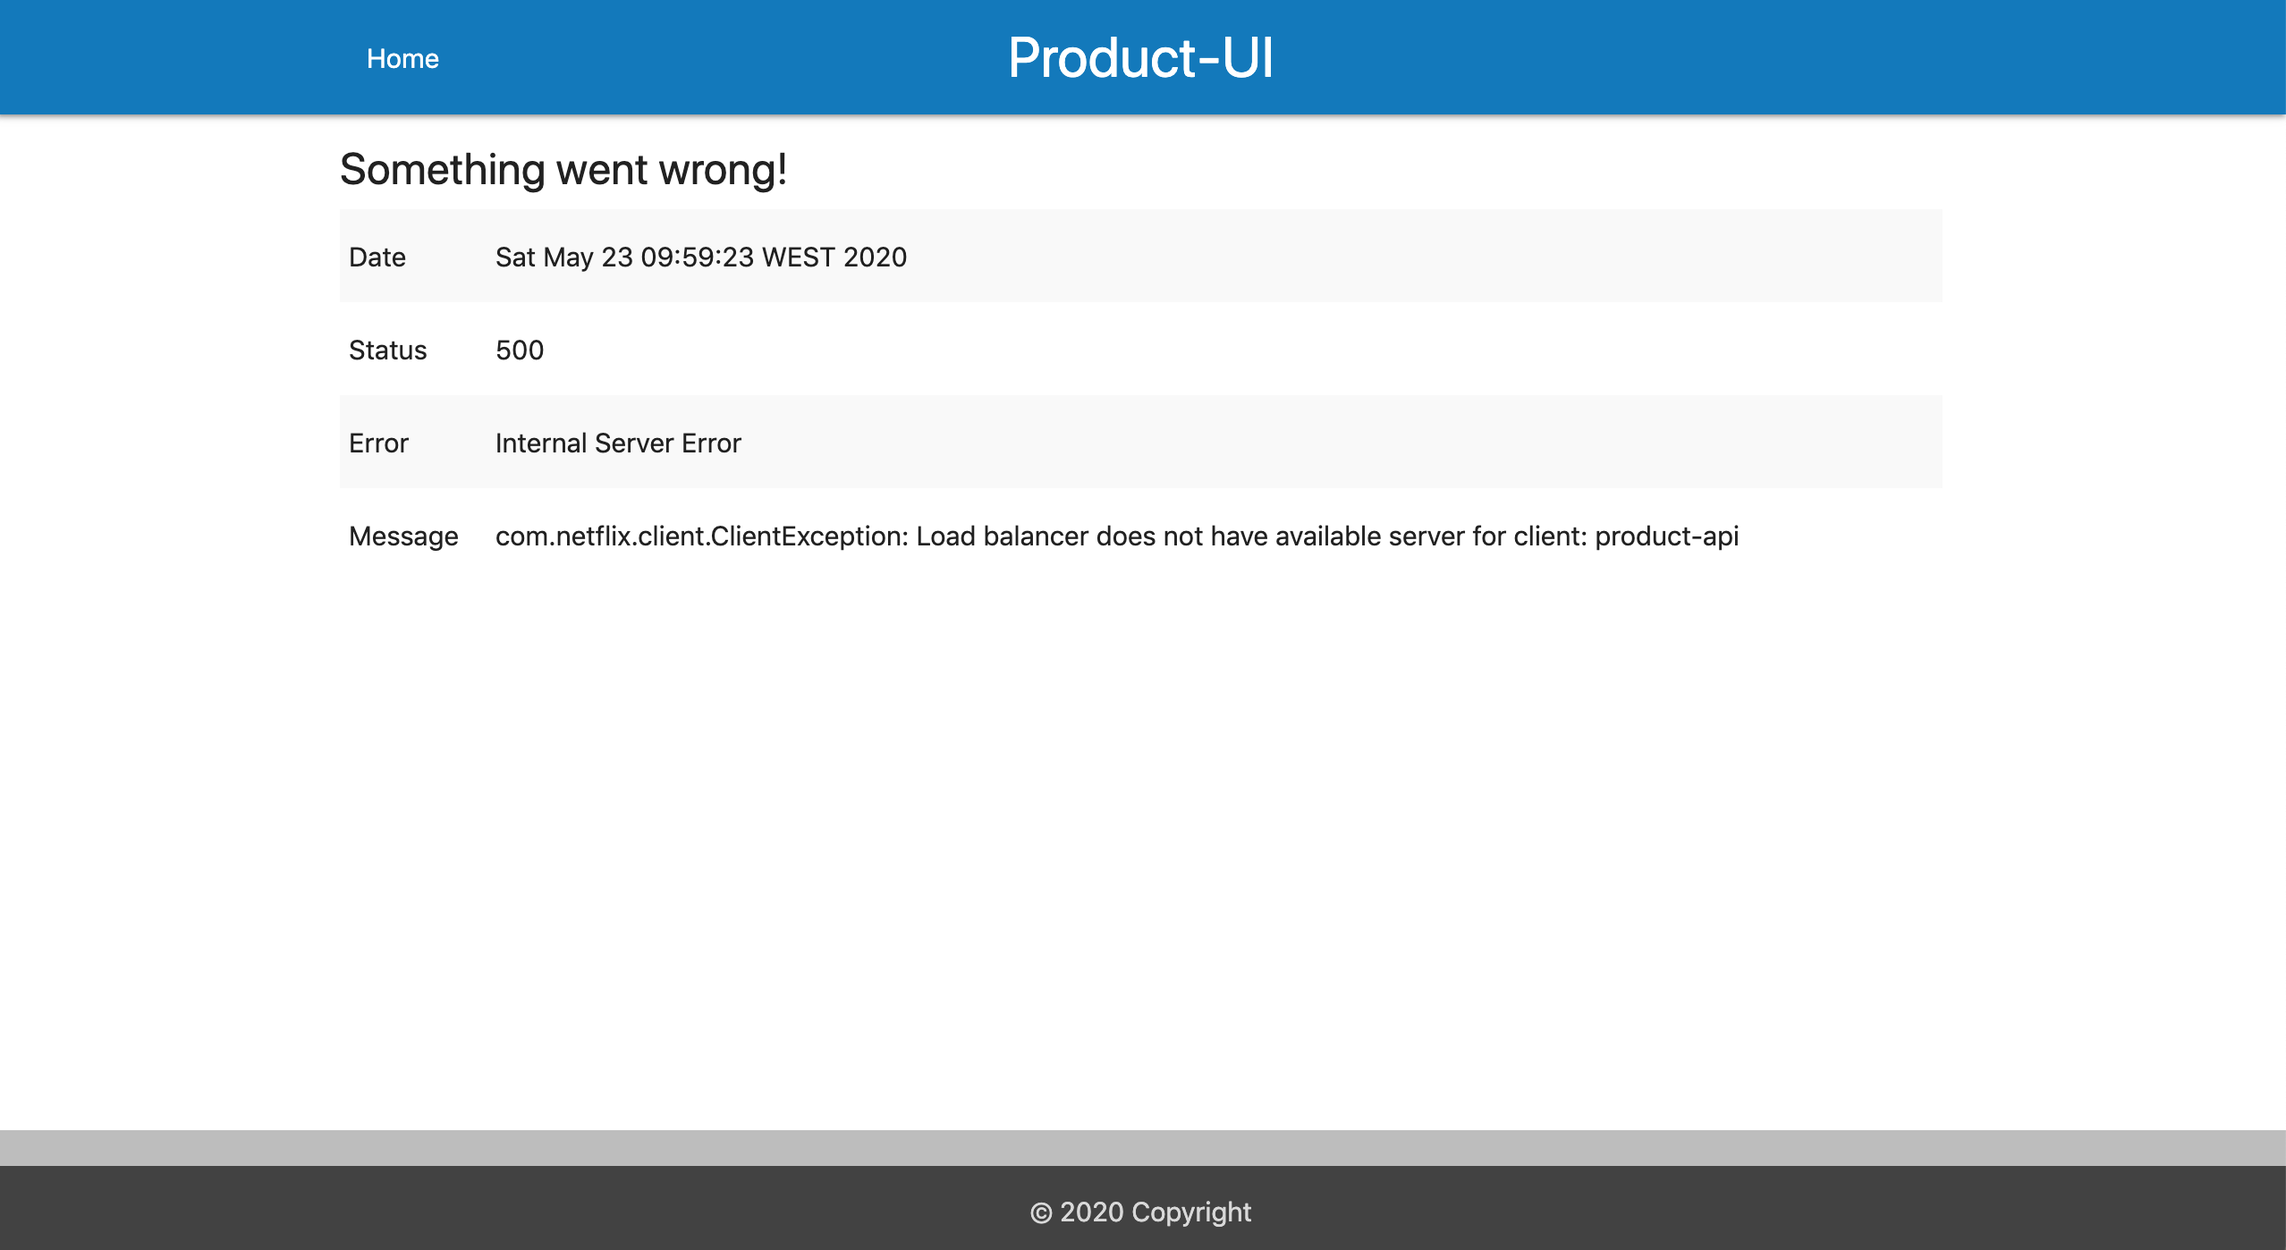
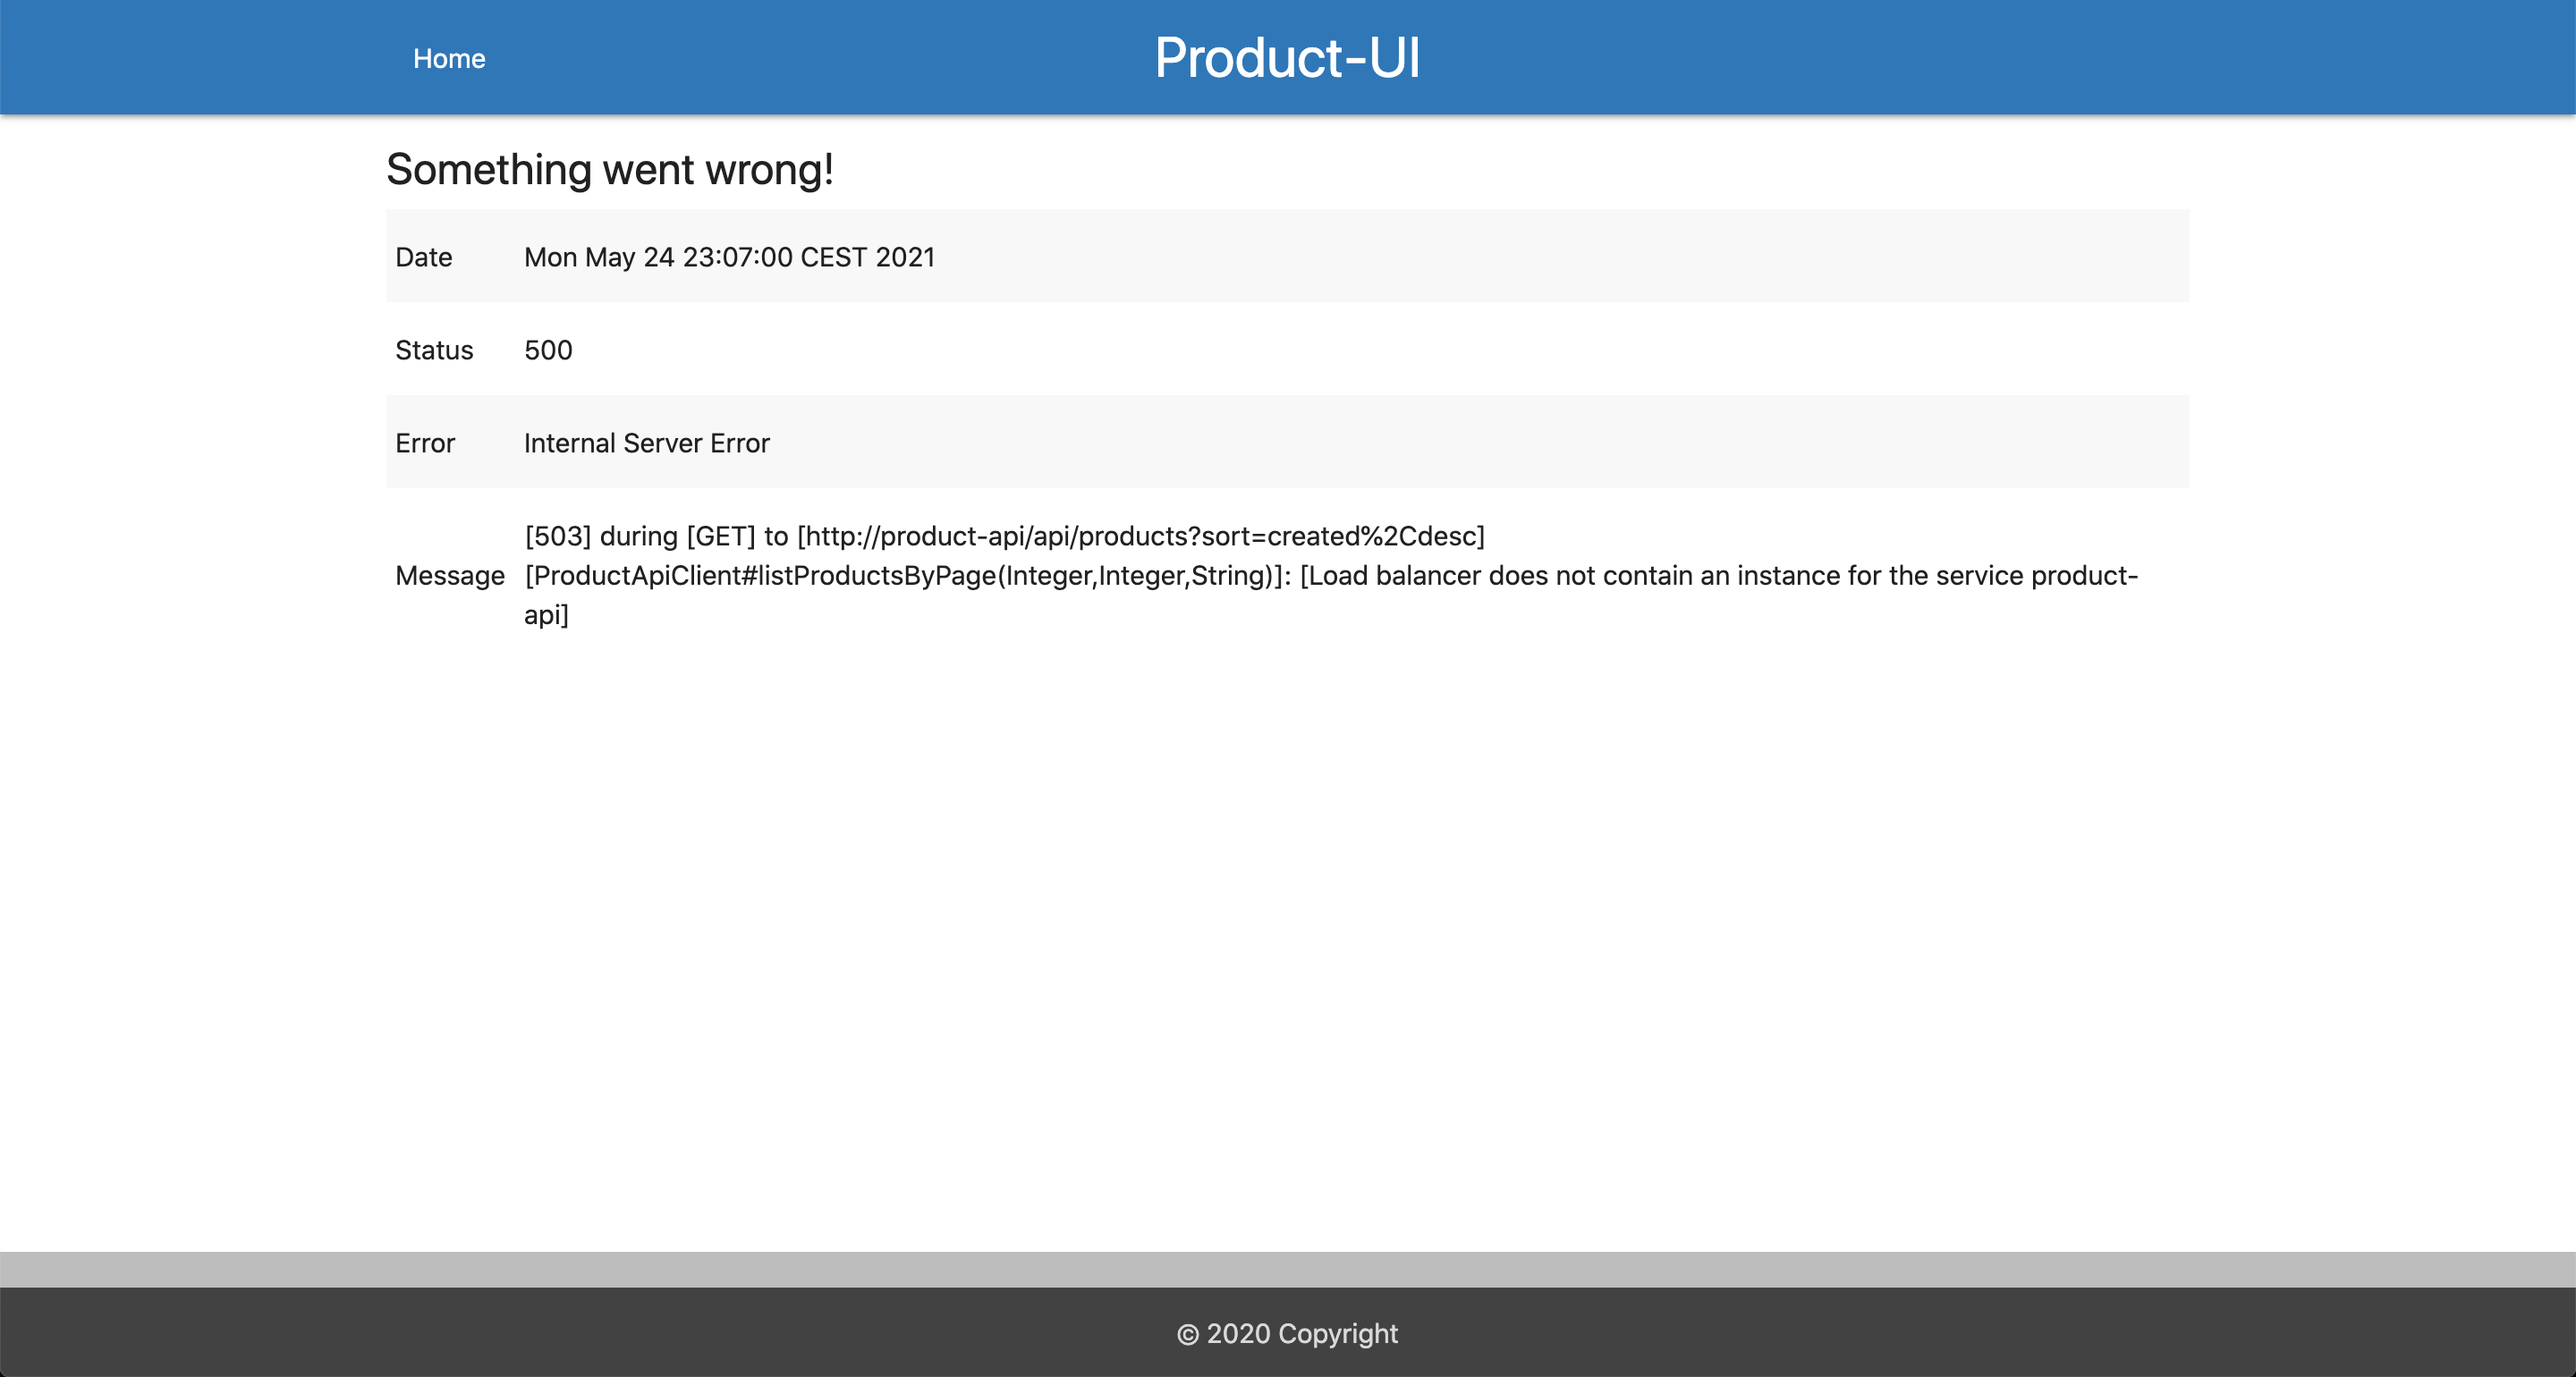
project update - update spring-boot to 2.4.6; - update springdoc-openapi to 1.5.9; - rename docker image profix to ivanfranchin; - add ErrorAttributesConfig class to product-ui; - update maven-wrapper.properties.

diff --git a/product-ui/src/main/java/com/mycompany/productui/config/ErrorAttributesConfig.java b/product-ui/src/main/java/com/mycompany/productui/config/ErrorAttributesConfig.java
@@ -1,0 +1,28 @@
+package com.mycompany.productui.config;
+
+import org.springframework.boot.web.error.ErrorAttributeOptions;
+import org.springframework.boot.web.error.ErrorAttributeOptions.Include;
+import org.springframework.boot.web.servlet.error.DefaultErrorAttributes;
+import org.springframework.boot.web.servlet.error.ErrorAttributes;
+import org.springframework.context.annotation.Bean;
+import org.springframework.context.annotation.Configuration;
+import org.springframework.web.context.request.WebRequest;
+
+import java.util.Map;
+
+@Configuration
+public class ErrorAttributesConfig {
+
+    @Bean
+    public ErrorAttributes errorAttributes() {
+        return new DefaultErrorAttributes() {
+            @Override
+            public Map<String, Object> getErrorAttributes(WebRequest webRequest, ErrorAttributeOptions options) {
+                return super.getErrorAttributes(webRequest,
+                        options.including(Include.EXCEPTION, Include.MESSAGE, Include.BINDING_ERRORS));
+
+            }
+        };
+    }
+
+}
